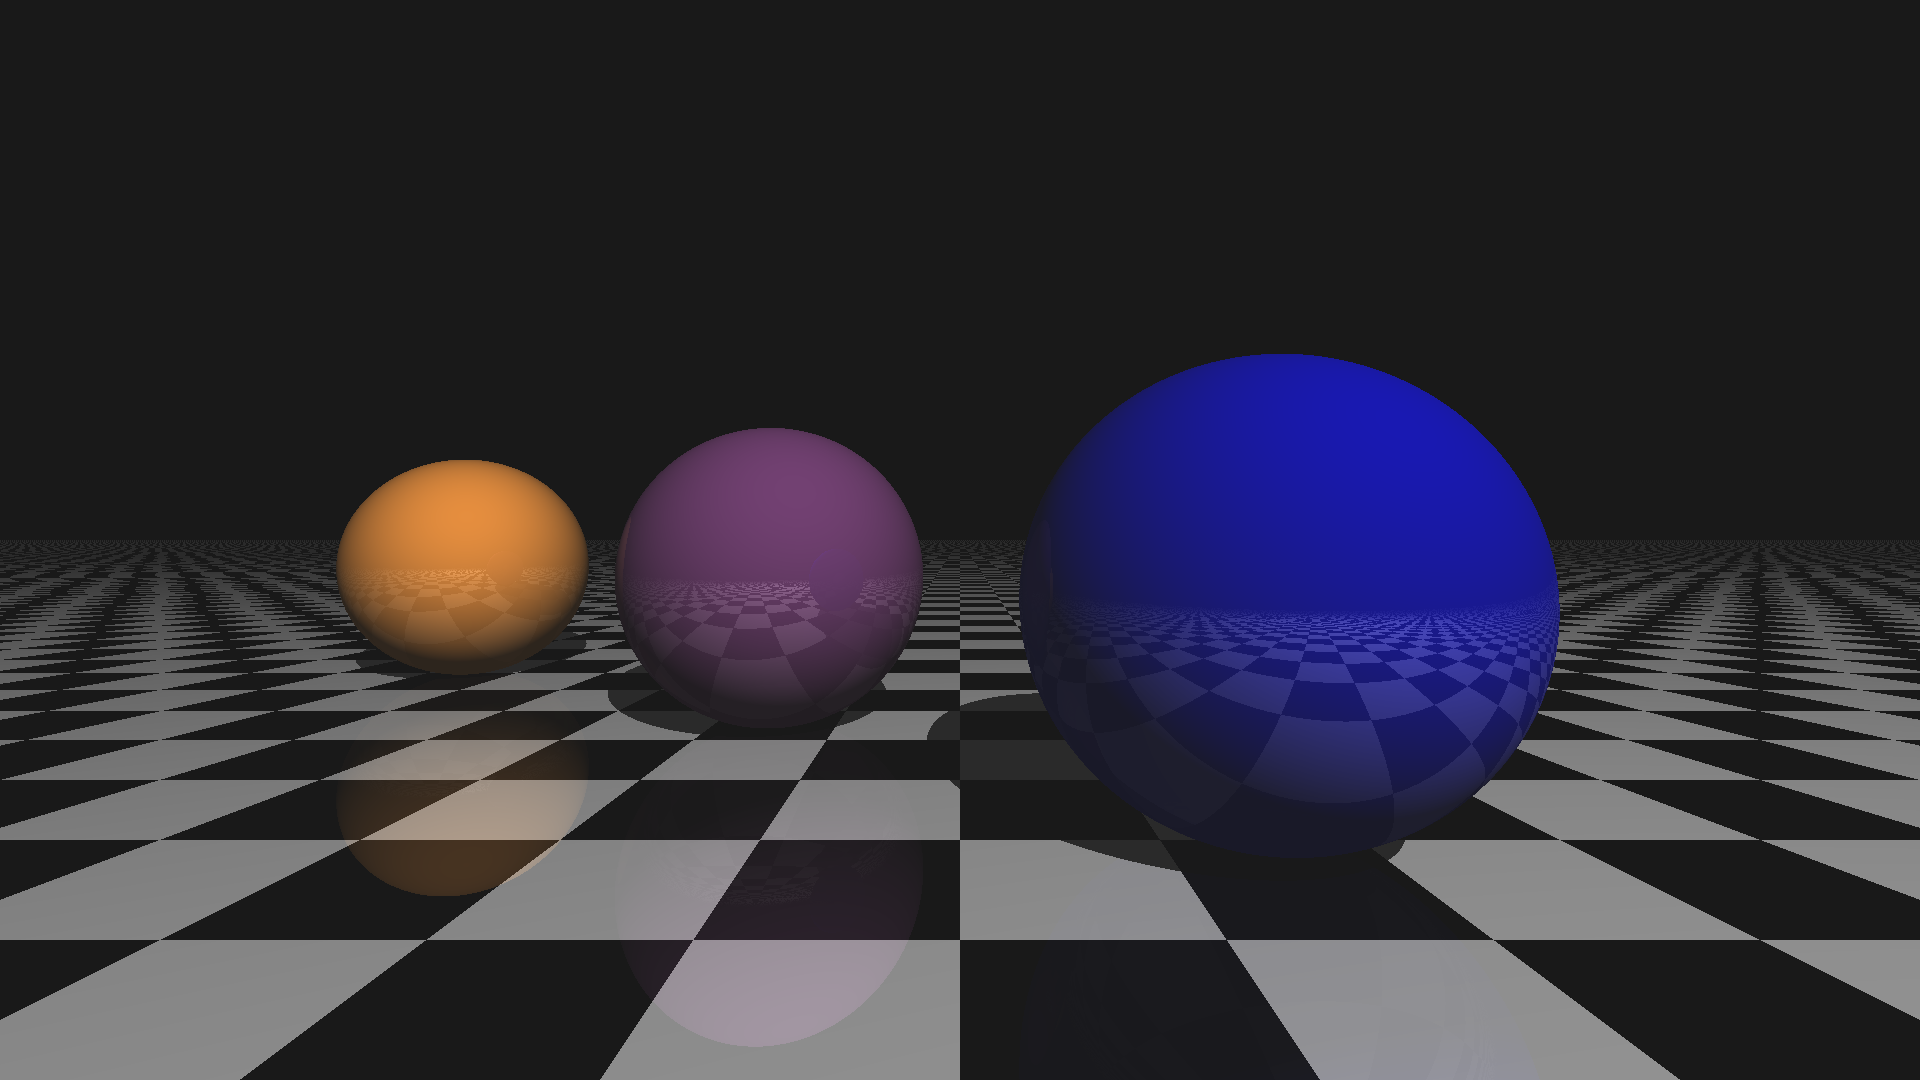
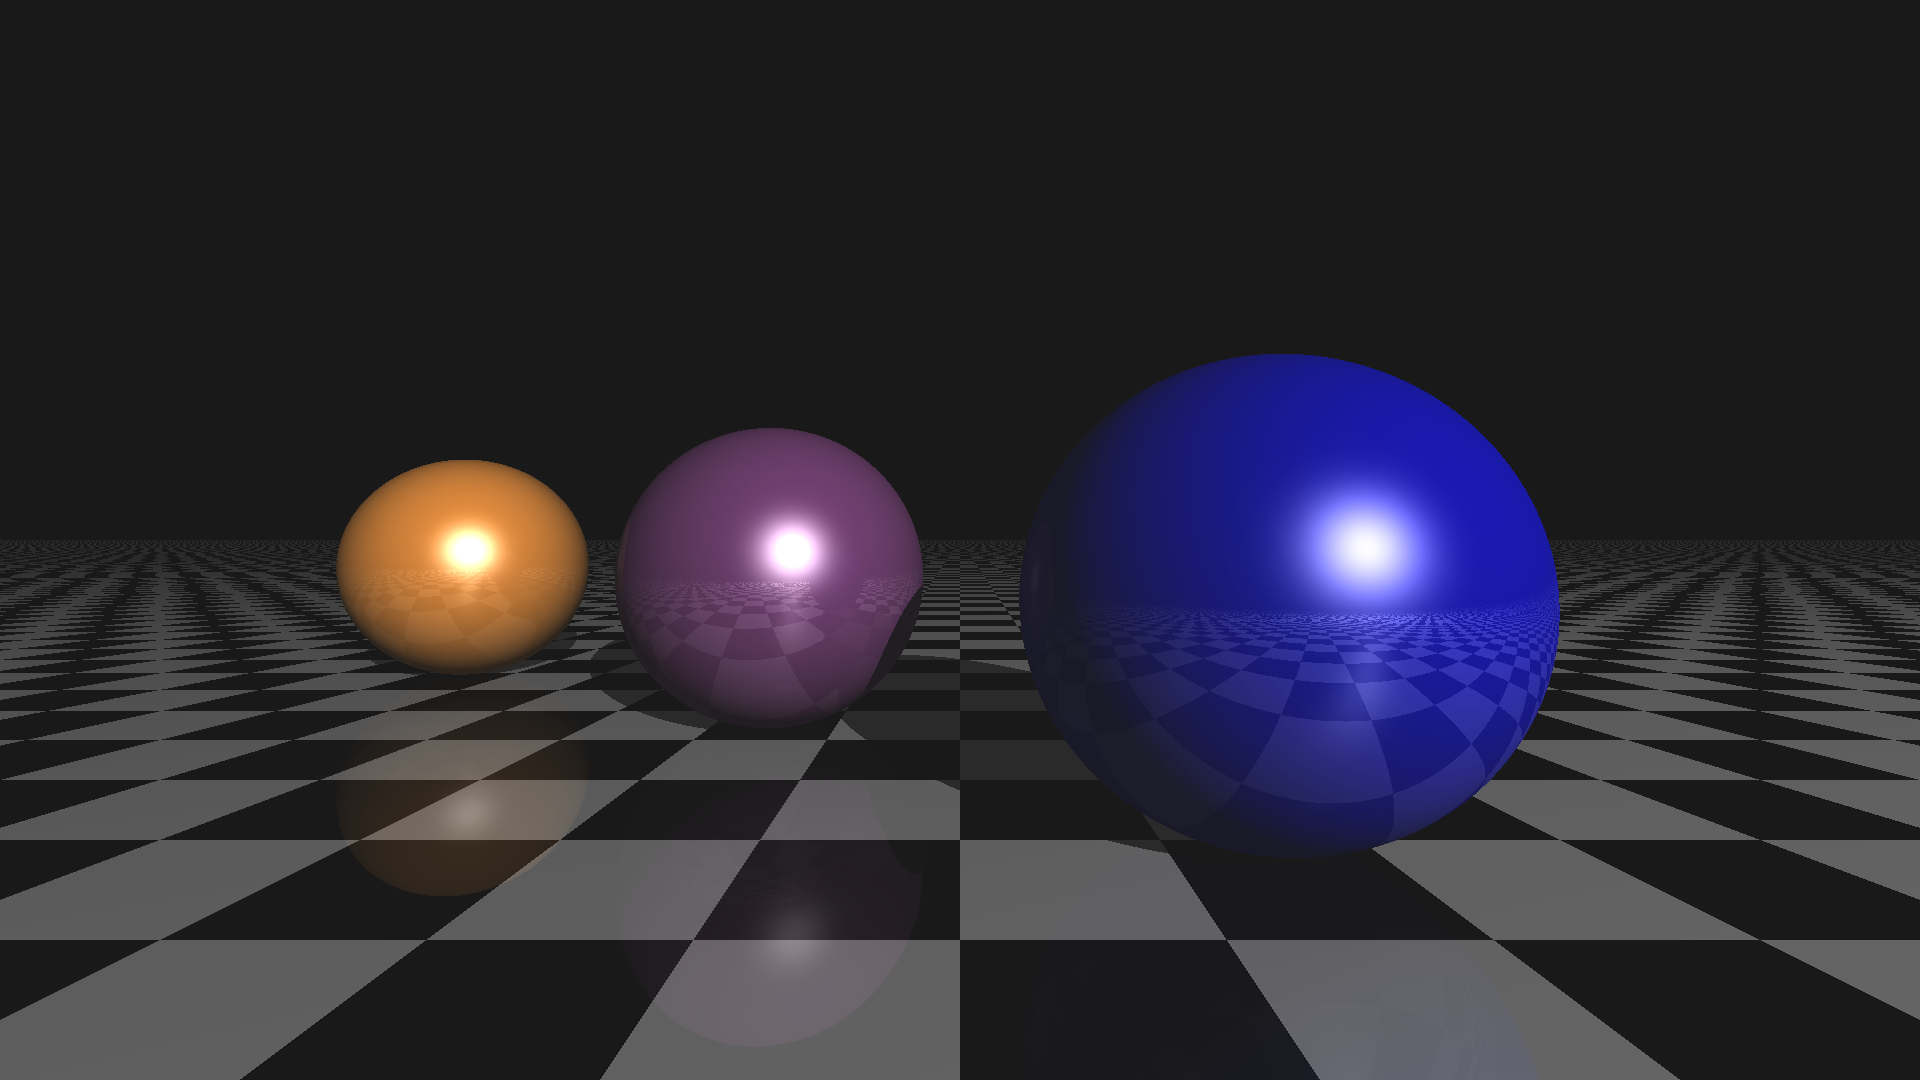
Added Blinn-Phong Shading.

Changed region(s): [[0.0, 0.4278, 1.0, 1.0], [0.5312, 0.3056, 0.6875, 0.4889], [0.375, 0.4583, 0.4375, 0.5806]]

diff --git a/Ray Tracing.py b/Ray Tracing.py
@@ -46,7 +46,7 @@ background_color = 0.0 * np.ones(3)
 
 ambient = 0.1 * np.ones(3)
 
-light_position = np.array([2.0, 5.0, -5.0])
+light_position = np.array([5.0, 5.0, -10.0])
 light_color = np.ones(3)
 
 # x0, y0, x1, y1
@@ -152,21 +152,27 @@ def trace_ray(depth, ray_o, ray_d):
 	if obj_index == -1:
 		return background_color
 
+	obj = objects[obj_index]
+
 	intersect_point = get_line_point(ray_o, ray_d, distance)
-	object_normal_vector = get_normal_vector(objects[obj_index], intersect_point)
+	object_normal_vector = get_normal_vector(obj, intersect_point)
 	intersect_point = intersect_point + 0.0001 * object_normal_vector
 
-	color = get_color(objects[obj_index], intersect_point)
+	color = get_color(obj, intersect_point)
 
 	reflection_ray_vector = np.real(ray_d - 2 * np.dot(ray_d, object_normal_vector) * object_normal_vector)
 	reflection_ray_color = trace_ray(depth - 1, intersect_point, reflection_ray_vector)
 
 	if is_shadowed(intersect_point):
-		return 0.1 * ((1 - objects[obj_index]["reflection_coefficient"] ) * color\
-			+ reflection_ray_color * objects[obj_index]["reflection_coefficient"])
+		return 0.1 * ((1 - obj["reflection_coefficient"]) * color \
+					+ reflection_ray_color * obj["reflection_coefficient"])
 
-	color = (1 - objects[obj_index]["reflection_coefficient"] ) * color\
-			+ reflection_ray_color * objects[obj_index]["reflection_coefficient"]
+	color = (1 - obj["reflection_coefficient"]) * color \
+			+ reflection_ray_color * obj["reflection_coefficient"]
+
+	toL = normalize(light_position - intersect_point)
+	toO = normalize(ray_o - intersect_point)
+	color += np.real(np.dot(object_normal_vector, normalize(toL + toO))) ** 50 * light_color
 
 	return np.multiply(color, get_light_amount(obj_index, intersect_point))
 
